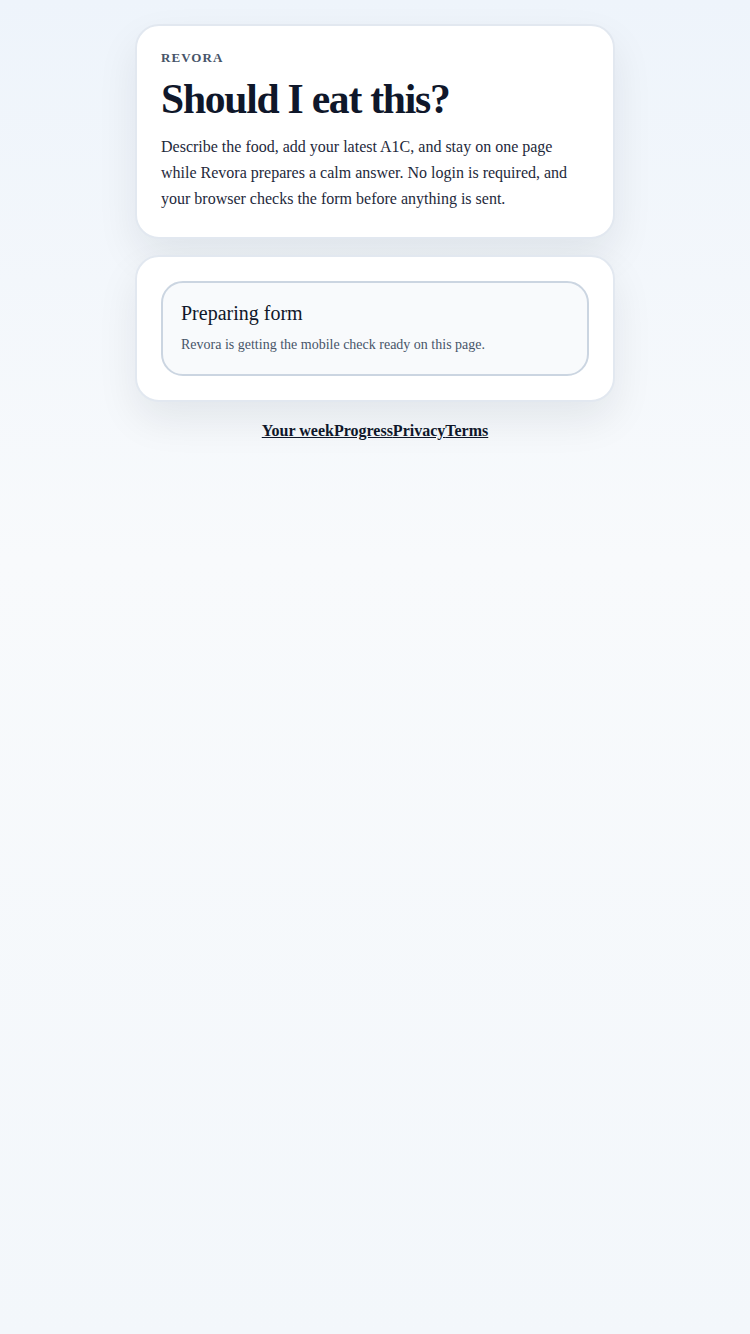
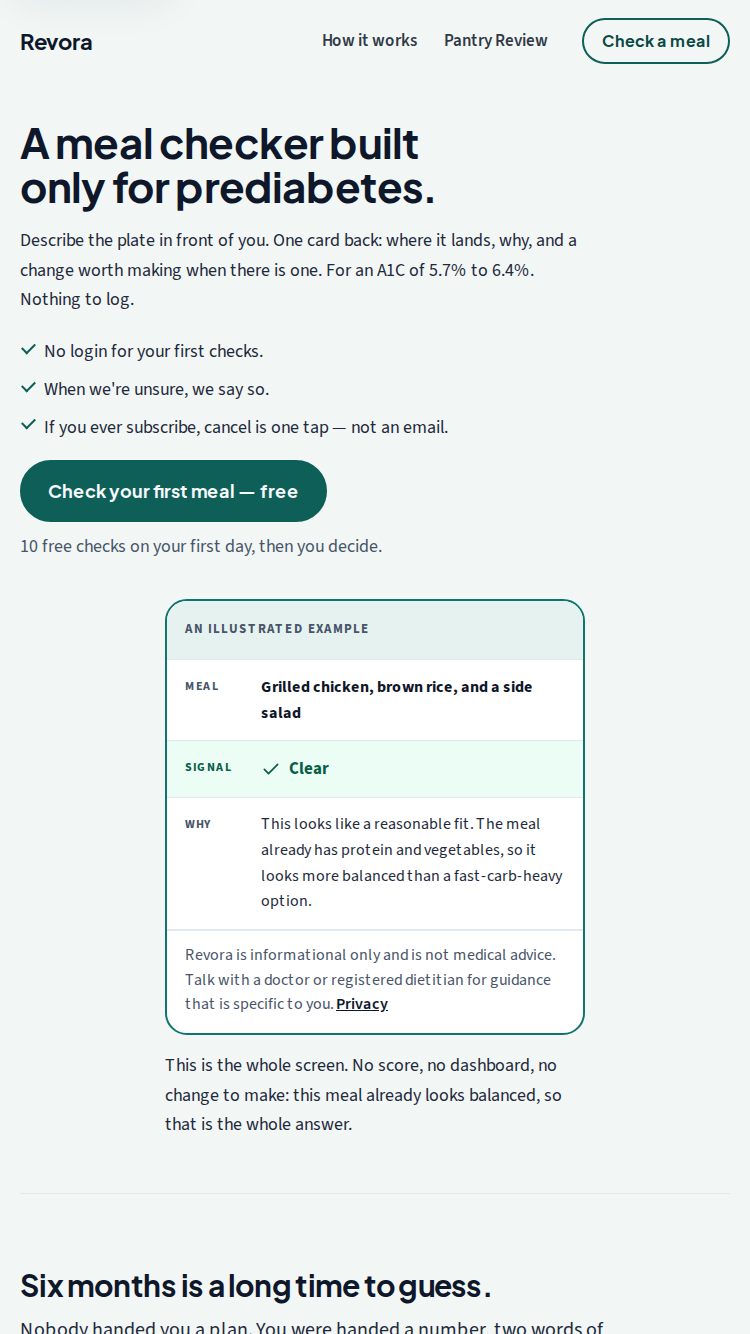
feat(landing): fill block 2's empty right column with a real capture of /check
Owner marked four areas with red X's previewing the branch at 1280px. Two of
them were already fixed by deleting the pricing section (its own empty right
column, and the two identical CTAs that ended up stacked back to back once
block 4's and block 5's sat adjacent). This closes the biggest remaining one.

Block 2 becomes two columns at >=900px: the reader's situation on the left,
the actual app on the right. The capture lands opposite "The apps want you to
become an accountant", which is the claim it is evidence for — one text box
and one number, versus weigh-it-log-it-scan-the-barcode.

scripts/capture-landing-art.mjs captures it from the running app at a phone
viewport (390x844, DPR 2) so it stays legible at the ~390px the column gives
it; a 1280px capture scaled down would be unreadable. It clips at 700px, which
lands in the GAP between the answer-placeholder card and the "New here?" card
— cutting a card mid-sentence reads as a broken image, not a screenshot.

The 900px floor is load-bearing, NOT a convenience. The desert budget is
measured at 375px and the worst desert has 124px of headroom; a stacked
screenshot adds ~700px to exactly that stretch. Below 900px the art does not
render and the page measures byte-identically: 7,811px either way.

Not a card: no shadow, no card radius. DESIGN.md §11 allows this page one card
family and the result card is it.

⛔ The capture bakes the free-check count in as PIXELS ("10 free checks left
[…]

diff --git a/tests/unit/revora/landing-art.test.ts b/tests/unit/revora/landing-art.test.ts
@@ -1,0 +1,63 @@
+import fs from "node:fs";
+import path from "node:path";
+
+import { describe, expect, it } from "vitest";
+
+import { TASTER_LIMIT } from "../../../lib/client/taster-store";
+
+const ART = "public/landing/app-check.png";
+const src = fs.readFileSync(
+  path.join(process.cwd(), "app/page.tsx"),
+  "utf8"
+);
+
+/**
+ * The landing's right-column artwork is a REAL capture of /check
+ * (`scripts/capture-landing-art.mjs`), added 2026-08-05 when the owner marked
+ * the empty right columns with red X's and chose captured screenshots over
+ * live product components.
+ *
+ * ⛔ Why this file exists. Every free-tier number on the landing is
+ * interpolated from TASTER_LIMIT and never retyped — `copy-pins.test.ts`
+ * enforces that, because the store listing, the landing and the meter drifting
+ * apart is a real defect that shipped once. The capture defeats that guard
+ * completely: it renders "N free checks left today" as PIXELS, which no copy
+ * audit can read. Change TASTER_LIMIT and the page would interpolate the new
+ * number in its captions while the screenshot beside them showed the old one.
+ *
+ * So this pins the coupling instead. If TASTER_LIMIT moves, this fails and
+ * says what to do about it.
+ */
+describe("the landing's captured artwork cannot drift from the free tier", () => {
+  it("the art file exists where the page references it", () => {
+    expect(fs.existsSync(path.join(process.cwd(), ART))).toBe(true);
+    expect(src).toContain('src="/landing/app-check.png"');
+  });
+
+  it("TASTER_LIMIT still matches the number baked into the capture", () => {
+    // ⚠ If this fails, TASTER_LIMIT changed and the PNG is now WRONG on a
+    // marketing page. Re-capture, then update this number:
+    //   npm run build && npm run start &
+    //   node scripts/capture-landing-art.mjs
+    const BAKED_INTO_THE_PNG = 10;
+    expect(
+      TASTER_LIMIT,
+      `The landing screenshot ${ART} shows "${BAKED_INTO_THE_PNG} free checks left today" as pixels. TASTER_LIMIT is now ${TASTER_LIMIT}. Re-run: node scripts/capture-landing-art.mjs`
+    ).toBe(BAKED_INTO_THE_PNG);
+  });
+
+  it("the capture script is committed alongside the asset it produces", () => {
+    // An undocumented binary nobody can regenerate is how the previous
+    // screenshots went stale for a whole design era.
+    expect(
+      fs.existsSync(path.join(process.cwd(), "scripts/capture-landing-art.mjs"))
+    ).toBe(true);
+  });
+
+  it("carries alt text, because the capture makes an argument", () => {
+    // It sits opposite "The apps want you to become an accountant" and is the
+    // evidence for that claim. Decorative alt would drop the argument for
+    // anyone not seeing the image.
+    expect(src).toMatch(/alt="The Revora check screen on a phone:[^"]+"/);
+  });
+});

diff --git a/app/page.tsx b/app/page.tsx
@@ -290,6 +290,18 @@ export default function LandingPage() {
               between is supposed to be your job to figure out.
             </p>
           </div>
+          {/* Two columns at ≥900px: the reader's situation on the left, the
+              actual app on the right. The owner marked this empty right half
+              with a red X — the prose measures 62ch inside a 1080px frame, so
+              half the block was dead space at 1280px while the card blocks
+              either side of it fill the width.
+
+              The art answers the third pain directly. "The apps want you to
+              become an accountant" is the claim; a screenshot showing one text
+              box and one number is the evidence, and it is the product's real
+              screen rather than an illustration of one. */}
+          <div className="landing-split">
+            <div className="landing-split-copy">
           <ul className="landing-pains" role="list">
             <li>
               <strong>The advice was two words long.</strong> “Eat better.”
@@ -342,6 +354,32 @@ export default function LandingPage() {
             outside 5.7% to 6.4%, it says so plainly and points you to a
             clinician instead of pretending.
           </p>
+            </div>
+            {/* ⚠ A REAL CAPTURE of /check, not a mockup — regenerate with
+                `node scripts/capture-landing-art.mjs` whenever that screen
+                changes, or this quietly starts advertising a screen that no
+                longer exists.
+
+                ⛔ The capture contains the free-check count as rendered pixels
+                ("10 free checks left today"). That is the one number this page
+                interpolates from TASTER_LIMIT everywhere else specifically so
+                it cannot drift — and a PNG is invisible to `copy-pins`. The
+                guard is in landing-art.test.ts: change TASTER_LIMIT and it
+                fails, pointing here.
+
+                Hidden below 900px in CSS, which is load-bearing: the desert
+                budget is measured at 375px and has 124px of headroom. */}
+            <div className="landing-split-art" aria-hidden="false">
+              <img
+                src="/landing/app-check.png"
+                alt="The Revora check screen on a phone: one box to describe the meal, one field for your latest A1C, and a button to check it."
+                width={390}
+                height={700}
+                loading="lazy"
+                decoding="async"
+              />
+            </div>
+          </div>
         </section>
 
         {/* ── The pause ─────────────────────────────────────────── */}

diff --git a/app/globals.css b/app/globals.css
@@ -1998,6 +1998,60 @@ button.inline-link {
   border-top: 1px solid var(--border-soft);
 }
 
+/* ── Block 2's two columns ───────────────────────────────────
+   The owner marked this block's empty right half with a red X (2026-08-05):
+   the prose measures 62ch inside a 1080px frame, so half the block was dead
+   space at 1280px while the card blocks either side of it fill the width.
+
+   ⚠ The 900px floor is LOAD-BEARING, not a convenience. The desert budget is
+   measured at 375px (§11.1) and the worst desert — hero CTA to this block's
+   CTA — has 124px of headroom. A stacked screenshot adds ~700px to exactly
+   that stretch and puts the page outside the rule on the spot. Below 900px
+   the art is not rendered at all, and nothing is lost: it is supporting
+   evidence for a claim the prose already makes in words.
+
+   `align-items: start` so the art tracks the top of the column rather than
+   stretching to the copy's height. */
+.landing-split {
+  display: grid;
+  gap: 40px;
+}
+
+@media (min-width: 900px) {
+  .landing-split {
+    grid-template-columns: minmax(0, 1fr) 390px;
+    align-items: start;
+  }
+}
+
+.landing-split-copy {
+  min-width: 0;
+}
+
+/* Not a card, deliberately: no shadow and no card radius. §11 allows the page
+   ONE card family and the result card is it — a second boxed thing next to it
+   would read as a competing surface. A hairline and a soft radius are enough
+   to say "this is a screen", which the capture's own chrome already says. */
+.landing-split-art {
+  display: none;
+}
+
+@media (min-width: 900px) {
+  .landing-split-art {
+    display: block;
+    position: sticky;
+    top: 32px;
+  }
+}
+
+.landing-split-art img {
+  display: block;
+  width: 100%;
+  height: auto;
+  border: 1px solid var(--border-soft);
+  border-radius: 20px;
+}
+
 /* ── Who this is for ─────────────────────────────────────────
    Typography, not cards. These are three sentences about the reader's last six
    months; boxing them would make them look like features. */
